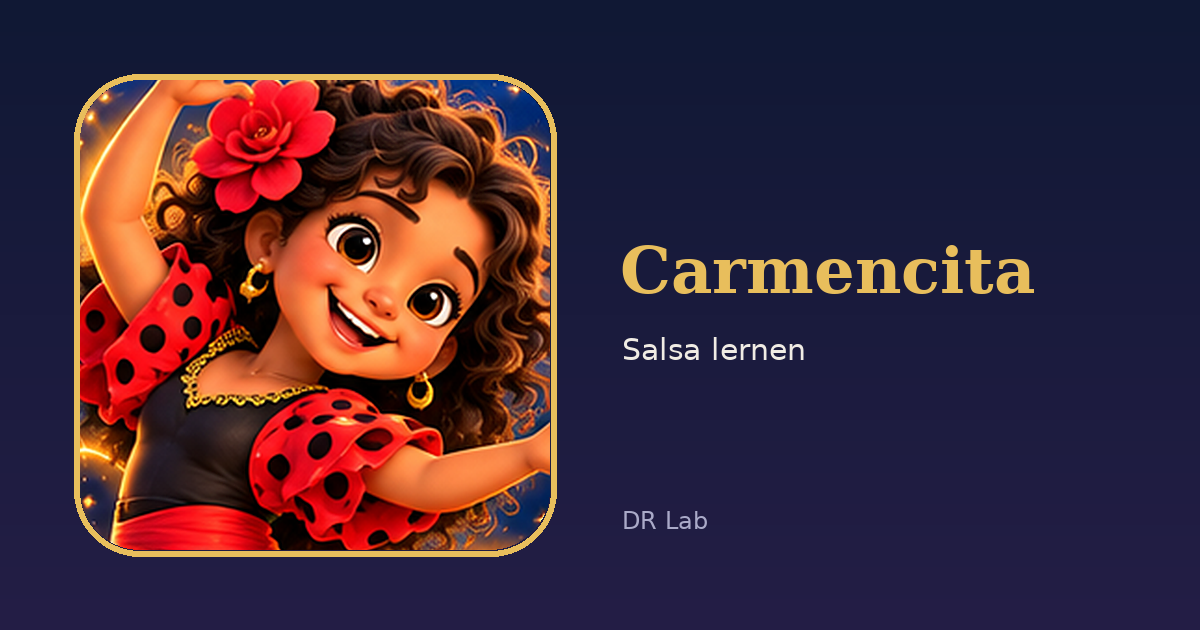
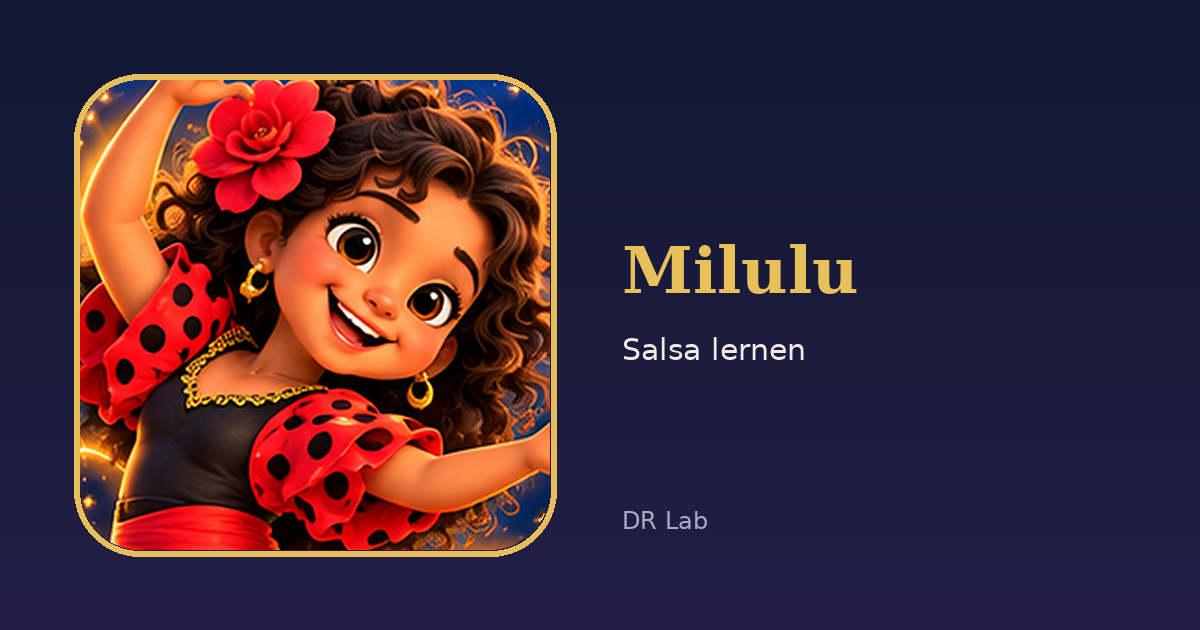
Carmen-App: Figur und App heissen jetzt Milulu
Sichtbare Namen, Teilen-Bild und Home-Bildschirm-Name umgestellt. Pfad
/carmen/ und interne Kennungen bleiben, damit Links und Stimmen weiter gehen.

Claude-Session: https://claude.ai/code/session_01KUL4juB2gamJnAwgBXH4Me

Changed region(s): [[0.4933, 0.3921, 0.8633, 0.4825]]

diff --git a/carmen/index.html b/carmen/index.html
@@ -6,18 +6,18 @@
 <meta name="apple-mobile-web-app-capable" content="yes">
 <meta name="mobile-web-app-capable" content="yes">
 <meta name="apple-mobile-web-app-status-bar-style" content="black-translucent">
-<meta name="apple-mobile-web-app-title" content="Carmen">
+<meta name="apple-mobile-web-app-title" content="Milulu">
 <meta name="theme-color" content="#0f1b3d">
 <meta name="color-scheme" content="dark">
-<meta name="description" content="Salsa lernen mit Carmen: Takt hören, Grundschritt, Feedback im Takt. Alles bleibt auf deinem Handy.">
+<meta name="description" content="Salsa lernen mit Milulu: Takt hören, Grundschritt, Feedback im Takt. Alles bleibt auf deinem Handy.">
 <link rel="manifest" href="manifest.webmanifest">
 <link rel="icon" href="icon.svg" type="image/svg+xml">
 <link rel="apple-touch-icon" href="icon-180.png">
 <link rel="preconnect" href="https://fonts.googleapis.com">
 <link rel="preconnect" href="https://fonts.gstatic.com" crossorigin>
 <link href="https://fonts.googleapis.com/css2?family=Fredoka:wght@400;500;600;700&display=swap" rel="stylesheet">
-<title>Carmen – Salsa lernen</title>
-<meta property="og:title" content="Carmencita – Salsa lernen"><meta property="og:description" content="Salsa lernen mit Carmencita, Schritt für Schritt."><meta property="og:image" content="https://diegorobert-code.github.io/DR_Lab/carmen/og.png"><meta property="og:image:width" content="1200"><meta property="og:image:height" content="630"><meta property="og:url" content="https://diegorobert-code.github.io/DR_Lab/carmen/"><meta property="og:type" content="website"><meta name="twitter:card" content="summary_large_image">
+<title>Milulu – Salsa lernen</title>
+<meta property="og:title" content="Milulu – Salsa lernen"><meta property="og:description" content="Salsa lernen mit Milulu, Schritt für Schritt."><meta property="og:image" content="https://diegorobert-code.github.io/DR_Lab/carmen/og.png"><meta property="og:image:width" content="1200"><meta property="og:image:height" content="630"><meta property="og:url" content="https://diegorobert-code.github.io/DR_Lab/carmen/"><meta property="og:type" content="website"><meta name="twitter:card" content="summary_large_image">
 <style>
 :root{
   --night:#0f1b3d; --night2:#18295a; --night3:#22397a; --card:rgba(255,255,255,.07); --line:rgba(255,255,255,.13);
@@ -155,31 +155,31 @@ input[type=range]{width:100%;accent-color:var(--gold)}
 </style>
 </head>
 <body>
-<div id="figurStart" role="dialog" aria-label="Carmencita"><img src="figur-gross.jpg" alt="Carmencita"><h1>Carmencita</h1><p>¡Hola! Hör zuerst die Musik, deine Füsse kommen von allein.</p><button type="button" id="figurStartGo">¡Vamos!</button></div>
+<div id="figurStart" role="dialog" aria-label="Milulu"><img src="figur-gross.jpg" alt="Milulu"><h1>Milulu</h1><p>¡Hola! Hör zuerst die Musik, deine Füsse kommen von allein.</p><button type="button" id="figurStartGo">¡Vamos!</button></div>
 <script>(function(){var s=document.getElementById('figurStart');try{if(sessionStorage.getItem('figurStart'))s.hidden=true;}catch(e){}document.getElementById('figurStartGo').onclick=function(){s.hidden=true;try{sessionStorage.setItem('figurStart','1');}catch(e){}};})();</script>
 <div class="wrap">
   <header class="top">
     <button class="back" id="back" hidden>‹ Zurück</button>
-    <div class="brand" id="brand">Carmen <span>·</span> Salsa</div>
+    <div class="brand" id="brand">Milulu <span>·</span> Salsa</div>
     <div class="pill" id="streak" title="Geübte Runden">★ <span id="rounds">0</span></div>
   </header>
 
   <!-- START -->
   <section class="screen on" id="s-home">
-    <div class="stage" data-sag="home-say"><svg class="carmen" id="carmen-home" viewBox="0 0 200 240" aria-label="Carmen"><use href="#carmen-art"/></svg></div>
-    <div class="bubble" id="home-say">¡Hola! Ich bin Carmen. Hör zuerst die Musik, deine Füsse kommen von allein.</div>
+    <div class="stage" data-sag="home-say"><svg class="carmen" id="carmen-home" viewBox="0 0 200 240" aria-label="Milulu"><use href="#carmen-art"/></svg></div>
+    <div class="bubble" id="home-say">¡Hola! Ich bin Milulu. Hör zuerst die Musik, deine Füsse kommen von allein.</div>
     <button class="btn gold" id="go-next">Weiter üben</button>
     <div class="sec">Stufen</div>
     <div class="list" id="levels"></div>
-    <div class="sec">Carmencita Workshop</div>
+    <div class="sec">Milulu Workshop</div>
     <div class="list">
       <button class="item" data-go="ws"><div class="ic">✦</div><div class="tx"><b>Tanz-Fitness 30 Min.</b><span>4 Wochen, 2× pro Woche: Merengue, Salsa, Cumbia, Reggaeton, Samba</span></div><div class="badge" id="ws-badge"></div></button>
     </div>
     <div class="sec">Mehr</div>
     <div class="list">
       <button class="item" data-go="band"><div class="ic">♫</div><div class="tx"><b>Band &amp; Metronom</b><span>Instrumente einzeln, Tempo frei, Clave 2-3 oder 3-2</span></div></button>
-      <button class="item" data-go="cam"><div class="ic">◉</div><div class="tx"><b>Kamera-Coach (Beta)</b><span>Carmen schaut auf deine Füsse. Bild bleibt auf dem Handy.</span></div></button>
-      <button class="item" data-go="mem"><div class="ic">♥</div><div class="tx"><b>Was Carmen sich merkt</b><span>Dein Fortschritt, nur auf diesem Gerät</span></div></button>
+      <button class="item" data-go="cam"><div class="ic">◉</div><div class="tx"><b>Kamera-Coach (Beta)</b><span>Milulu schaut auf deine Füsse. Bild bleibt auf dem Handy.</span></div></button>
+      <button class="item" data-go="mem"><div class="ic">♥</div><div class="tx"><b>Was Milulu sich merkt</b><span>Dein Fortschritt, nur auf diesem Gerät</span></div></button>
       <button class="item" data-go="set"><div class="ic">⚙</div><div class="tx"><b>Einstellungen</b><span>Führen/Folgen, Clave, Stimme, Kopfhörer ausgleichen</span></div></button>
     </div>
     <p class="foot-note">Testversion · DR Lab · Musik wird im Handy erzeugt, lizenzfrei · Nichts wird aufgenommen oder gesendet.<br>Bei Knie- oder Rückenschmerzen langsamer tanzen. Platz frei räumen.</p>
@@ -234,7 +234,7 @@ input[type=range]{width:100%;accent-color:var(--gold)}
   <!-- WORKSHOP -->
   <section class="screen" id="s-ws">
     <div id="ws-pick">
-      <h2 class="center">Carmencita Workshop</h2>
+      <h2 class="center">Milulu Workshop</h2>
       <p class="muted center small">30 Minuten: Aufwärmen, vier Tanzblöcke, Cool-down. Zweimal pro Woche, vier Wochen. Die Musik wird im Handy erzeugt.</p>
       <div class="list" id="ws-list"></div>
       <p class="foot-note">Kein Gesundheitsversprechen. Bei Schmerzen kleiner und langsamer tanzen. Wasser bereit, Platz frei, glatte Sohlen.</p>
@@ -265,17 +265,17 @@ input[type=range]{width:100%;accent-color:var(--gold)}
     <div class="fb" id="fb-cam"></div>
     <div class="row" style="margin:10px 0"><button class="btn gold" id="cam-go">Kamera + Musik starten</button></div>
     <div class="chips" id="cam-steps"></div>
-    <p class="muted small center">Carmen erkennt, wann ein Fuss aufsetzt, und vergleicht mit dem Takt. Gewicht verlagern ohne Schritt (2 und 6) sieht sie noch nicht. Für genaues Messen: Tippen-Übungen.</p>
+    <p class="muted small center">Milulu erkennt, wann ein Fuss aufsetzt, und vergleicht mit dem Takt. Gewicht verlagern ohne Schritt (2 und 6) sieht sie noch nicht. Für genaues Messen: Tippen-Übungen.</p>
   </section>
 
   <!-- MERKT SICH -->
   <section class="screen" id="s-mem">
-    <h2 class="center">Was Carmen sich merkt</h2>
+    <h2 class="center">Was Milulu sich merkt</h2>
     <p class="muted center small">Nur auf diesem Gerät. Keine Bilder, keine Stimme.</p>
     <div class="card"><div class="mem" id="mem-list"></div></div>
     <div class="card">
       <h3>Erfahrung teilen</h3>
-      <p class="small muted">Hilft Carmen und der Sense Engine, besser zu werden. Es gehen nur diese Zahlen raus, nichts anderes.</p>
+      <p class="small muted">Hilft Milulu und der Sense Engine, besser zu werden. Es gehen nur diese Zahlen raus, nichts anderes.</p>
       <label class="check"><input type="checkbox" id="consent"> <span>Ich bin einverstanden, dass diese Übungszahlen (ohne Bild, ohne Stimme, ohne Namen) geteilt werden.</span></label>
       <button class="btn soft" id="share" disabled>Erfahrung teilen</button>
       <p class="small muted" id="share-ok"></p>
@@ -289,19 +289,19 @@ input[type=range]{width:100%;accent-color:var(--gold)}
     <div class="card">
       <div class="toggle"><span>Ich tanze</span><div class="seg" id="seg-role"><button data-v="lead">Führen</button><button data-v="follow">Folgen</button></div></div>
       <div class="toggle"><span>Clave</span><div class="seg" id="seg-clave"><button data-v="23">2-3</button><button data-v="32">3-2</button></div></div>
-      <div class="toggle"><span>Carmen zählt mit<br><small class="muted">uno, dos, tres … (bis 110 Schläge)</small></span><div class="seg" id="seg-voice"><button data-v="1">Ja</button><button data-v="0">Nein</button></div></div>
+      <div class="toggle"><span>Milulu zählt mit<br><small class="muted">uno, dos, tres … (bis 110 Schläge)</small></span><div class="seg" id="seg-voice"><button data-v="1">Ja</button><button data-v="0">Nein</button></div></div>
       <div class="toggle"><span>Ausgleich Kopfhörer<br><small class="muted" id="cal-val">0 ms</small></span><button class="chip on" id="cal-go">Messen</button></div>
     </div>
     <div class="card" id="cal-box" hidden>
       <h3>Ausgleich messen</h3>
-      <p class="small">Tippe 16 Mal genau auf den Klick. Carmen merkt sich, wie viel dein Handy oder Kopfhörer verzögert.</p>
+      <p class="small">Tippe 16 Mal genau auf den Klick. Milulu merkt sich, wie viel dein Handy oder Kopfhörer verzögert.</p>
       <div class="tap" id="cal-tap"><div>Tippen<small id="cal-n">0 / 16</small></div></div>
     </div>
     <p class="foot-note">Führen = klassisch Mann, Folgen = klassisch Frau. Jede und jeder darf beides lernen.</p>
   </section>
 </div>
 
-<!-- Carmen (Platzhalter bis Tinko-Bild) -->
+<!-- Milulu (Platzhalter bis Tinko-Bild) -->
 <svg width="0" height="0" style="position:absolute" aria-hidden="true">
   <defs>
     <linearGradient id="dress" x1="0" y1="0" x2="0" y2="1"><stop offset="0" stop-color="#2a4290"/><stop offset="1" stop-color="#16245a"/></linearGradient>
@@ -622,7 +622,7 @@ function finish(){
   show("result");
 }
 function suggestion(){
-  // Was als Nächstes? Carmen lernt aus den gespeicherten Zahlen.
+  // Was als Nächstes? Milulu lernt aus den gespeicherten Zahlen.
   for(const id of ORDER){ const s=mem.steps[id]; const bpm=mem.bpm[id]||90;
     if(!s||s.best<80) return {id,bpm:s&&s.last<50?Math.max(70,bpm-10):bpm};
     if(s.bestBpm<110) return {id,bpm:Math.min(110,s.bestBpm+10)};
@@ -646,7 +646,7 @@ function renderHome(){
   const sg=suggestion(); $("#go-next").textContent=`Weiter: ${STEPS[sg.id].title} · ${sg.bpm}`;
   $("#go-next").onclick=()=>openPractice(sg.id,"step",sg.bpm);
   const days=mem.days.length;
-  $("#home-say").textContent=mem.rounds===0?"¡Hola! Ich bin Carmen. Hör zuerst die Musik, deine Füsse kommen von allein."
+  $("#home-say").textContent=mem.rounds===0?"¡Hola! Ich bin Milulu. Hör zuerst die Musik, deine Füsse kommen von allein."
     :`¡Hola otra vez! ${mem.rounds} Runden an ${days} ${days===1?"Tag":"Tagen"}. Heute schlage ich vor: ${STEPS[sg.id].title}.`;
 }
 function tempoName(b){return b<100?"langsam":b<140?"mittel":b<170?"langsame Salsa":"Club-Tempo"}
@@ -693,7 +693,7 @@ $("#cal-tap").addEventListener("pointerdown",e=>{ e.preventDefault(); if(!cal) r
     $("#cal-val").textContent=mem.calib+" ms"; $("#cal-n").textContent="Fertig: "+mem.calib+" ms gespeichert"; }
 });
 
-/* ---------- Was Carmen sich merkt ---------- */
+/* ---------- Was Milulu sich merkt ---------- */
 function renderMem(){
   const L=$("#mem-list"); const rows=[];
   rows.push(["Geübte Runden",mem.rounds]); rows.push(["Übungstage",mem.days.length]);
@@ -709,7 +709,7 @@ $("#share").onclick=async()=>{
     inhalt:{runden:mem.rounds,tage:mem.days.length,rolle:mem.role,stufen:Object.fromEntries(Object.entries(mem.steps).map(([k,s])=>[k,{best:s.best,zuletzt:s.last,abweichung_ms:s.avg,sicher_bis_bpm:s.bestBpm}]))},
     hinweis:"Nur Zahlen. Kein Bild, keine Stimme, kein Name."};
   const txt=JSON.stringify(data,null,1);
-  try{ if(navigator.share){await navigator.share({title:"Carmen Erfahrung",text:txt});} else {await navigator.clipboard.writeText(txt);} $("#share-ok").textContent="Bereit zum Einfügen in die Sense Engine."; }
+  try{ if(navigator.share){await navigator.share({title:"Milulu Erfahrung",text:txt});} else {await navigator.clipboard.writeText(txt);} $("#share-ok").textContent="Bereit zum Einfügen in die Sense Engine."; }
   catch(e){ try{await navigator.clipboard.writeText(txt);$("#share-ok").textContent="Kopiert.";}catch(_){ $("#share-ok").textContent="Teilen nicht möglich."; } }
 };
 $("#mem-reset").onclick=()=>{ if(confirm("Wirklich alles vergessen?")){ mem=Object.assign({},defMem,{steps:{},bpm:{},days:[]}); save(); renderMem(); } };
@@ -722,7 +722,7 @@ function camChips(){ const el=$("#cam-steps"); el.innerHTML="";
     c.onclick=()=>{camStep=id;camChips();}; el.appendChild(c);}); }
 $("[data-go=cam]").addEventListener("click",()=>{camChips();buildCounts($("#counts-cam"));});
 async function camStart(){
-  audio(); $("#cam-ov").textContent="Carmen lädt die Bewegungserkennung …";
+  audio(); $("#cam-ov").textContent="Milulu lädt die Bewegungserkennung …";
   try{
     stream=await navigator.mediaDevices.getUserMedia({video:{facingMode:"user",width:{ideal:640},height:{ideal:480}},audio:false});
     const v=$("#video"); v.srcObject=stream; await v.play();
@@ -760,7 +760,7 @@ function camLoop(){
   }; loop();
 }
 
-/* ---------- Carmencita Workshop (30 Min.) ---------- */
+/* ---------- Milulu Workshop (30 Min.) ---------- */
 const WARM={name:"Aufwärmen",style:"warm",bpm:122,every:32,moves:["Auf der Stelle marschieren","Schultern kreisen","Hüfte kreisen","Seit-Tap rechts und links"]};
 const COOL={name:"Cool-down",style:"cool",bpm:70,every:32,moves:["Langsam gehen","Tief atmen","Waden dehnen","Oberschenkel dehnen","Hüfte und Schultern lösen"]};
 const CH_A=["Merengue-Marsch vor","Merengue mit Drehung","Salsa-Grundschritt","Salsa-Seitschritt mit Armen"];
@@ -788,7 +788,7 @@ function renderWs(){
 }
 function wsOpen(k){ W={k,idx:0,el:0,run:false,lastMove:-1}; $("#ws-pick").hidden=true;$("#ws-run").hidden=false;$("#ws-done").hidden=true;
   $("#ws-title").textContent="Einheit "+k+" · "+WS[k].t.split(" · ")[1]; buildCounts($("#counts-ws"),[1,2,3,4,5,6,7,8]); wsShow(); $("#ws-play").textContent="▶ Los"; }
-function sayDe(txt){ try{ if(window.NovaStimme&&NovaStimme.aktiv()){ NovaStimme.sprich(txt); return; } // Carmencitas eigene Stimme (Sense Engine)
+function sayDe(txt){ try{ if(window.NovaStimme&&NovaStimme.aktiv()){ NovaStimme.sprich(txt); return; } // Milulus eigene Stimme (Sense Engine)
   if(!("speechSynthesis" in window))return; speechSynthesis.cancel(); const u=new SpeechSynthesisUtterance(txt); u.lang="de-DE"; u.rate=1.05;
   const v=(voices||speechSynthesis.getVoices()).find(v=>/^de/i.test(v.lang)); if(v)u.voice=v; speechSynthesis.speak(u);}catch(e){} }
 const mmss=x=>{x=Math.max(0,Math.ceil(x));return Math.floor(x/60)+":"+String(x%60).padStart(2,"0")};
@@ -908,8 +908,8 @@ button{transition:transform .15s,box-shadow .3s}button:active{transform:scale(.9
   }
 })();
 </script>
-<script src="../apps/sprechen/sprechen.js" data-figur="carmencita" data-name="Carmencita" data-bild="figur.jpg" data-audio="audio/carmencita/" data-unten="18" data-saetze='{"gruss": ["¡Hola! Ich bin Carmencita. Tanzt du mit mir?"], "lob": ["¡Muy bien! Deine Füsse tanzen schon ganz von allein."], "mut": ["Langsam ist auch schön. Hör auf die Musik, eins, zwei, drei, Pause."], "frage": ["Tipp auf «Weiter üben», dann zeige ich dir den nächsten Schritt."]}' defer></script>
+<script src="../apps/sprechen/sprechen.js" data-figur="carmencita" data-name="Milulu" data-bild="figur.jpg" data-audio="audio/carmencita/" data-unten="18" data-saetze='{"gruss": ["¡Hola! Ich bin Milulu. Tanzt du mit mir?"], "lob": ["¡Muy bien! Deine Füsse tanzen schon ganz von allein."], "mut": ["Langsam ist auch schön. Hör auf die Musik, eins, zwei, drei, Pause."], "frage": ["Tipp auf «Weiter üben», dann zeige ich dir den nächsten Schritt."]}' defer></script>
 <script src="../nova/seelen.js" defer></script>
-<script src="../nova/nova.js" data-nova-bild="figur.jpg" data-nova-app="Carmencita" data-nova-figur="carmencita" defer></script>
+<script src="../nova/nova.js" data-nova-bild="figur.jpg" data-nova-app="Milulu" data-nova-figur="carmencita" defer></script>
 </body>
 </html>
